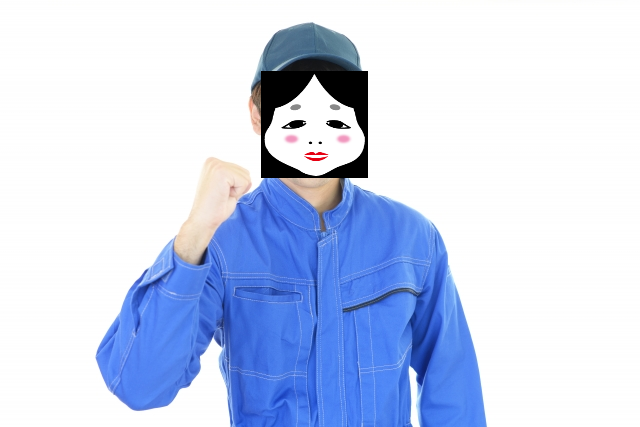
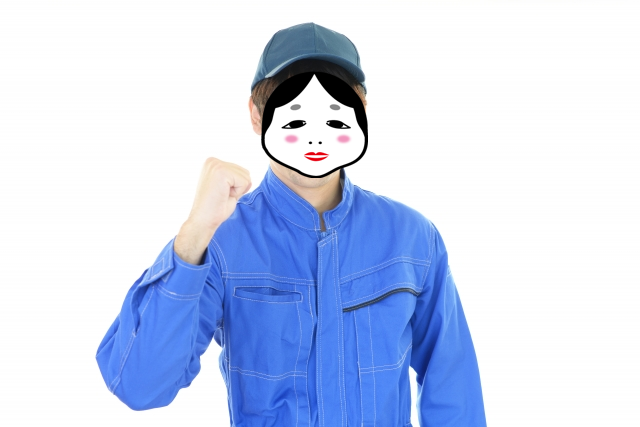
first commit

diff --git a/trans_app.py b/trans_app.py
@@ -1,4 +1,5 @@
 import cv2
+from PIL import Image
 
 original_face_img = "images/man.png"
 original_mask_img = "images/otahuku.png"
@@ -9,7 +10,6 @@ def find_face():
     cascade_file = "haarcascade_frontalface_alt.xml"
     cascade = cv2.CascadeClassifier(cascade_file)
 
-    # 画像を読み込み、グレイスケールに変換
     img = cv2.imread(original_face_img)
 
     # 顔検出
@@ -23,12 +23,21 @@ def paste_img(face_list):
     y = face_list[0][1]
     w = face_list[0][2]
     h = face_list[0][3]
-    face_img = cv2.imread(original_face_img)
-    mask_img = cv2.imread(original_mask_img)
-    resized_mask_img = cv2.resize(mask_img, dsize=(w, h))
-    cv2.imwrite("images/resize_otahuku.png", resized_mask_img)
-    face_img[y : y + h, x : x + w] = cv2.imread("images/resize_otahuku.png")
-    cv2.imwrite("images/hensin.png", face_img)
+    # face_img = cv2.imread(original_face_img)
+    # mask_img = cv2.imread(original_mask_img)
+    face_img = Image.open(original_face_img)
+    mask_img = Image.open(original_mask_img)
+    # resized_mask_img = cv2.resize(mask_img, dsize=(w, h))
+    resized_mask_img = mask_img.resize((w, h))
+    resized_mask_img.save("images/resize_otahuku_pillow.png")
+    face_img.paste(resized_mask_img, (x, y), resized_mask_img.split()[3])
+
+    face_img.save("images/hensin.png")
+
+    # cv2.imwrite("images/resize_otahuku.png", resized_mask_img)
+
+    # face_img[y : y + h, x : x + w] = cv2.imread("images/resize_otahuku.png")
+    # cv2.imwrite("images/hensin.png", face_img)
 
 
 face_list = find_face()

diff --git a/trans_app02.py b/trans_app02.py
@@ -1,0 +1,33 @@
+import face_recognition
+import cv2
+import numpy as np
+
+
+original_face_img = "images/man.png"
+
+
+def find_face_part(face_part_name):
+    face_image = face_recognition.load_image_file(original_face_img)
+    face_landmarks_list = face_recognition.face_landmarks(face_image)
+    return face_landmarks_list[0][face_part_name]
+
+
+face_part_name = "right_eye"
+print(find_face_part(face_part_name))
+face_img = cv2.imread(original_face_img)
+# for coordinate in find_face_part("chin"):
+#     cv2.drawMarker(
+#         face_img,
+#         coordinate,
+#         color=(255, 0, 0),
+#         markerType=cv2.MARKER_CROSS,
+#         thickness=1,
+#     )
+
+cv2.fillConvexPoly(
+    face_img, np.array(find_face_part(face_part_name)), color=(255, 255, 255)
+)
+
+cv2.imshow("Image", face_img)
+cv2.waitKey(0)
+cv2.destroyAllWindows

diff --git a/confirm.py b/confirm.py
@@ -1,0 +1,21 @@
+import face_recognition
+import cv2
+
+original_face_img = "images/man.png"
+face_img = face_recognition.load_image_file(original_face_img)
+face_landmarks_list = face_recognition.face_landmarks(face_img)
+# print(face_landmarks_list)
+face_image = cv2.imread(original_face_img)
+# chin, left_eyebrow, right_eyebrow, nose_bridge,right_eye, left_eye, bottom_lip
+print(face_landmarks_list[0]["top_lip"])
+for chin_cordinate in face_landmarks_list[0]["top_lip"]:
+    cv2.drawMarker(
+        face_image,
+        chin_cordinate,
+        color=(255, 0, 0),
+        markerType=cv2.MARKER_CROSS,
+        thickness=1,
+    )
+cv2.imshow("image", face_image)
+cv2.waitKey(0)
+cv2.destroyAllWindows()

diff --git a/rgba.py b/rgba.py
@@ -1,0 +1,10 @@
+from PIL import Image
+
+otahuku_img = Image.open("images/otahuku.png")
+
+# otahuku_img.show()
+
+print(otahuku_img.split())
+
+otahuku_img.split()[].show()
+
